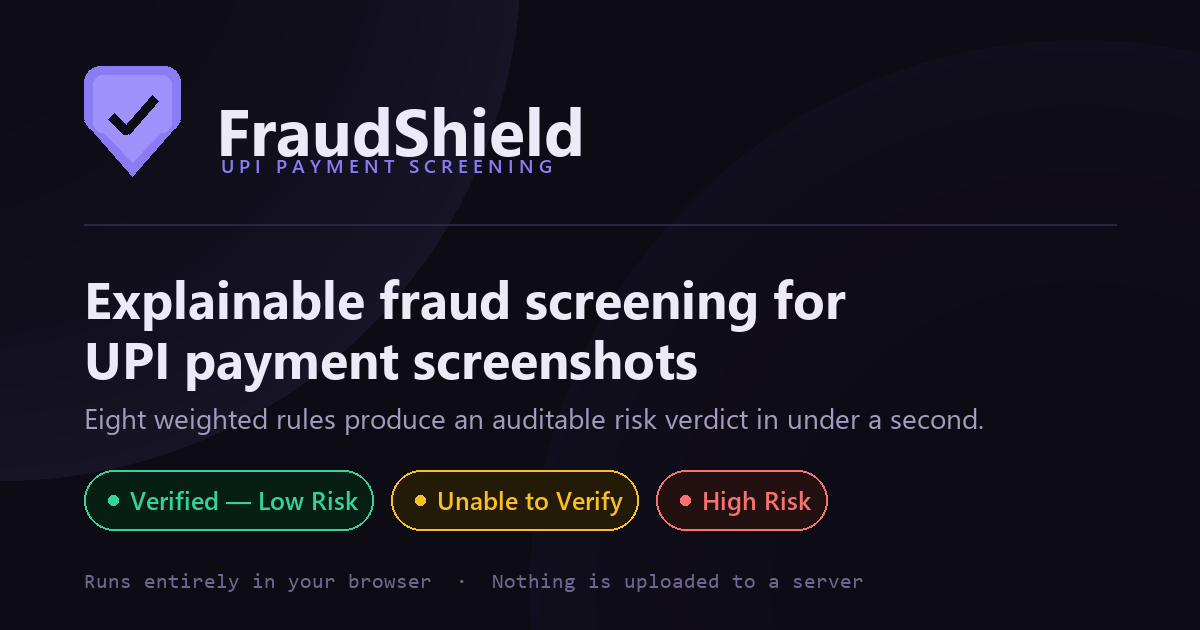
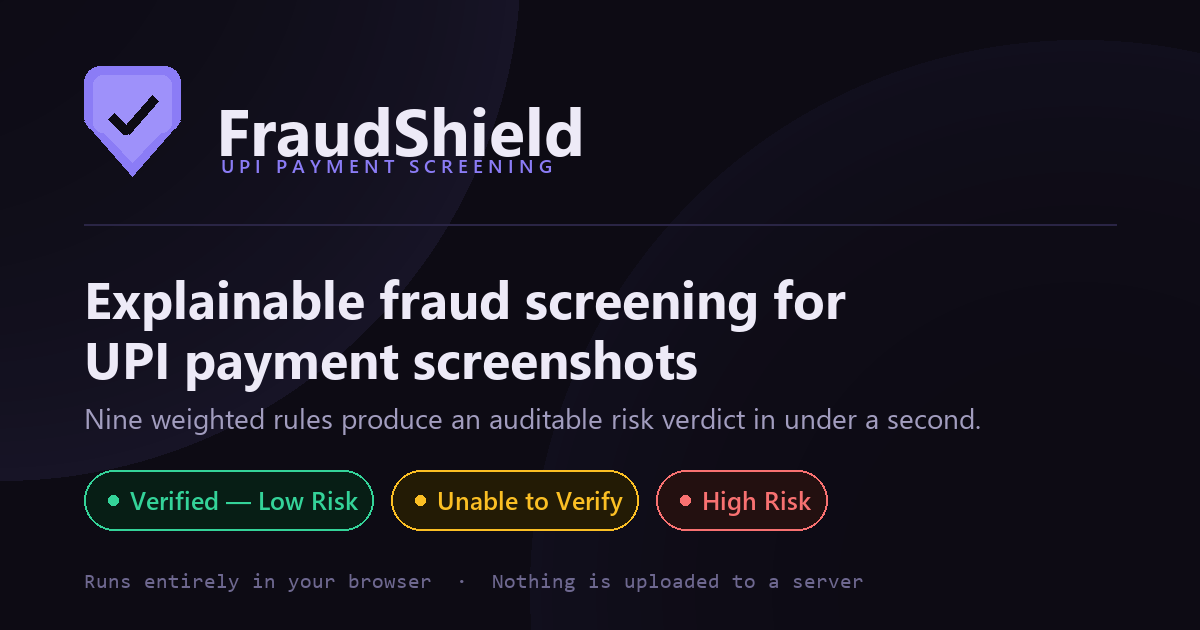
Read fields from the screenshot, and use the payer mobile as identity
Two additions asked for after using the prototype: the form did not fill
itself from an uploaded screenshot, and a payer mobile number had nowhere
to go.

OCR: Tesseract.js is fetched from a CDN only when an image is actually
uploaded, so the page still loads in one request and still works offline.
It reads amount, reference, payee VPA, mobile and payer name; each filled
value is outlined as auto-read rather than trusted. If the library is
blocked, times out, or the parse finds nothing, the form drops back to
manual entry and says so — the operator is never blocked, and the exact-
file hash is captured either way, so duplicate detection is unaffected.

Parsing is unit-tested against GPay, PhonePe and Paytm layouts. Two traps
it now avoids: a 12-digit reference contains a valid-looking 10-digit
mobile, so only a whole digit run is accepted as a number; and a support
email often precedes the payee handle, so every handle is walked rather
than just the first.

Mobile number: keyed against this merchant's own history — a known number
fills in the payer and shows their last payment. A phone number cannot be
resolved against bank or NPCI records from a browser, and the UI does not
pretend otherwise.

New rule R9 (weight 40) flags a mobile number turning up under a different
payer name, a common mule-account pattern. The history autofill is
suppressed while a screenshot is loaded: filling the name from the same
[…]

Changed region(s): [[0.0617, 0.6333, 0.8325, 0.6937]]

diff --git a/index.html b/index.html
@@ -4,7 +4,7 @@
 <meta charset="UTF-8">
 <meta name="viewport" content="width=device-width, initial-scale=1.0">
 <title>FraudShield UPI Console</title>
-<meta name="description" content="Explainable fraud screening for UPI payment screenshots — eight weighted rules produce an auditable risk verdict in under a second, entirely in your browser.">
+<meta name="description" content="Explainable fraud screening for UPI payment screenshots — nine weighted rules produce an auditable risk verdict in under a second, entirely in your browser.">
 <meta name="theme-color" content="#0d0b14">
 <link rel="canonical" href="https://printshop39-byte.github.io/fraudshield-upi/">
 <!-- Inline SVG favicon: no extra request, works offline. -->
@@ -149,6 +149,8 @@
   }
   .field input:focus,.field select:focus{outline:none;border-color:var(--accent)}
   .field input.invalid,.field select.invalid{border-color:var(--red)}
+  /* Auto-read values are marked, not trusted — the operator should check them. */
+  .field input.autofilled{border-color:var(--accent);background:rgba(139,124,246,.07)}
   .field .hint{display:block;font-size:10.5px;color:var(--tx3);margin-top:4px}
   .f-row{display:grid;grid-template-columns:1fr 1fr;gap:10px}
   .form-error{
@@ -397,14 +399,19 @@
           <div class="field"><label for="i-vpa">Payee VPA on screenshot</label><input id="i-vpa" value="sukhada.collect@okaxis"></div>
           <div class="f-row">
             <div class="field"><label for="i-payer">Payer name</label><input id="i-payer" value="Ramesh Patil"></div>
-            <div class="field"><label for="i-age">Screenshot age</label>
-              <select id="i-age">
-                <option value="0.2">Just now (12 min)</option>
-                <option value="20">Today (20 hrs)</option>
-                <option value="72">3 days old</option>
-                <option value="480">20 days old</option>
-              </select>
+            <div class="field"><label for="i-mobile">Payer mobile</label>
+              <input id="i-mobile" inputmode="numeric" maxlength="10" placeholder="10 digits">
+              <small class="hint">Known numbers fill in the payer automatically</small>
             </div>
+          </div>
+          <div id="payer-note" class="form-note hidden"></div>
+          <div class="field"><label for="i-age">Screenshot age</label>
+            <select id="i-age">
+              <option value="0.2">Just now (12 min)</option>
+              <option value="20">Today (20 hrs)</option>
+              <option value="72">3 days old</option>
+              <option value="480">20 days old</option>
+            </select>
           </div>
           <div class="toggle-row">
             <div class="tl"><b>Payment gateway connected</b><span>Cross-check UTR against real bank settlement</span></div>
@@ -508,12 +515,12 @@
               │
               ▼
  ┌────────────────────────────────┐
- │  2. FIELD EXTRACTION (OCR)     │  → amount, UTR, payee VPA, timestamp
+ │  2. FIELD EXTRACTION (OCR)     │  → amount, UTR, payee VPA, mobile
  └────────────────────────────────┘
               │
               ▼
  ┌────────────────────────────────┐
- │  3. RULE ENGINE (8 rules)      │  → weighted risk score 0–100
+ │  3. RULE ENGINE (9 rules)      │  → weighted risk score 0–100
  └────────────────────────────────┘
               │
               ▼
@@ -654,9 +661,28 @@ const RULES = [
 
   { id:'R7', name:'Payer velocity check', weight:15,
     detects:'Unusual submission frequency',
-    test:t => LEDGER.filter(x => x.payer === t.payer).length >= 3,
-    msg:t => `${t.payer} has submitted ${LEDGER.filter(x=>x.payer===t.payer).length} payment proofs — above normal frequency.`,
+    /* Keyed on the mobile number when given — a phone number is a far
+       harder identity to vary than a typed name. */
+    test:t => payerClaims(t) >= 3,
+    msg:t => `This payer has submitted ${payerClaims(t)} payment proofs — above normal frequency.`,
     ok:'Payer submission frequency is normal.' },
+
+  { id:'R9', name:'Payer identity consistency', weight:40,
+    detects:'Mobile number reused under a different name',
+    test:t => {
+      const h = payerHistory(t.mobile);
+      return !!h && !!t.payer && h.payer.toLowerCase() !== t.payer.toLowerCase();
+    },
+    msg:t => {
+      const h = payerHistory(t.mobile);
+      return `Mobile ${t.mobile} was previously used by "${h.payer}", not "${t.payer}". The same number paying under a different name is a common mule-account pattern.`;
+    },
+    ok:t => {
+      if(!t.mobile) return 'No mobile number given — payer identity check skipped.';
+      const h = payerHistory(t.mobile);
+      return h ? `Mobile matches a known payer ("${h.payer}") from ${h.date}.`
+               : 'First payment from this mobile number — nothing to contradict.';
+    } },
 
   { id:'R8', name:'Bank settlement match', weight:30,
     detects:'No real money received',
@@ -667,26 +693,42 @@ const RULES = [
 
 /* ---------- Seed ledger (demo history) ---------- */
 const LEDGER = [
-  {date:'18 Aug', utr:'412508931477', payer:'Ramesh Patil',  vpa:MERCHANT_VPA, amount:2500, score:0,  verdict:'GREEN',  reason:'All checks passed', hash:null},
-  {date:'18 Aug', utr:'389041226630', payer:'Sunita Jadhav', vpa:MERCHANT_VPA, amount:1800, score:0,  verdict:'GREEN',  reason:'All checks passed', hash:null},
-  {date:'19 Aug', utr:'774125009863', payer:'Amit Kore',     vpa:'amit.pay@ybl',amount:5000,score:85, verdict:'RED',    reason:'Payee VPA mismatch', hash:null},
-  {date:'19 Aug', utr:'556203118742', payer:'Vikas More',    vpa:MERCHANT_VPA, amount:3200, score:30, verdict:'YELLOW', reason:'No settlement match', hash:null},
-  {date:'19 Aug', utr:'901337442158', payer:'Priya Shinde',  vpa:MERCHANT_VPA, amount:950,  score:0,  verdict:'GREEN',  reason:'All checks passed', hash:null},
-  {date:'20 Aug', utr:'223908115570', payer:'Amit Kore',     vpa:MERCHANT_VPA, amount:7500, score:95, verdict:'RED',    reason:'Amount tampering', hash:null},
-  {date:'20 Aug', utr:'640182297431', payer:'Nilesh Gaikwad',vpa:MERCHANT_VPA, amount:4100, score:0,  verdict:'GREEN',  reason:'All checks passed', hash:null},
-  {date:'20 Aug', utr:'118450063392', payer:'Sunita Jadhav', vpa:MERCHANT_VPA, amount:2200, score:0,  verdict:'GREEN',  reason:'All checks passed', hash:null}
+  {date:'18 Aug', utr:'412508931477', payer:'Ramesh Patil',  mobile:'9822014577', vpa:MERCHANT_VPA, amount:2500, score:0,  verdict:'GREEN',  reason:'All checks passed', hash:null},
+  {date:'18 Aug', utr:'389041226630', payer:'Sunita Jadhav', mobile:'9730558812', vpa:MERCHANT_VPA, amount:1800, score:0,  verdict:'GREEN',  reason:'All checks passed', hash:null},
+  {date:'19 Aug', utr:'774125009863', payer:'Amit Kore',     mobile:'9146770231', vpa:'amit.pay@ybl',amount:5000,score:85, verdict:'RED',    reason:'Payee VPA mismatch', hash:null},
+  {date:'19 Aug', utr:'556203118742', payer:'Vikas More',    mobile:'9028441963', vpa:MERCHANT_VPA, amount:3200, score:30, verdict:'YELLOW', reason:'No settlement match', hash:null},
+  {date:'19 Aug', utr:'901337442158', payer:'Priya Shinde',  mobile:'8956120744', vpa:MERCHANT_VPA, amount:950,  score:0,  verdict:'GREEN',  reason:'All checks passed', hash:null},
+  {date:'20 Aug', utr:'223908115570', payer:'Amit Kore',     mobile:'9146770231', vpa:MERCHANT_VPA, amount:7500, score:95, verdict:'RED',    reason:'Amount tampering', hash:null},
+  {date:'20 Aug', utr:'640182297431', payer:'Nilesh Gaikwad',mobile:'7887332905', vpa:MERCHANT_VPA, amount:4100, score:0,  verdict:'GREEN',  reason:'All checks passed', hash:null},
+  {date:'20 Aug', utr:'118450063392', payer:'Sunita Jadhav', mobile:'9730558812', vpa:MERCHANT_VPA, amount:2200, score:0,  verdict:'GREEN',  reason:'All checks passed', hash:null}
 ];
+
+/* Most recent ledger entry for a payer mobile number, if any. */
+function payerHistory(mobile){
+  if(!/^[6-9]\d{9}$/.test(mobile || '')) return null;
+  return LEDGER.find(x => x.mobile === mobile) || null;
+}
+/* How many claims this payer has filed — by mobile when we have one. */
+function payerClaims(t){
+  return t.mobile
+    ? LEDGER.filter(x => x.mobile === t.mobile).length
+    : LEDGER.filter(x => x.payer === t.payer).length;
+}
 
 /* ---------- Demo cases ---------- */
 const SAMPLES = [
   {t:'✓ Genuine payment', d:'Everything checks out',
-   v:{amt:2500, exp:2500, utr:'770418299356', vpa:MERCHANT_VPA, payer:'Kiran Deshmukh', age:'0.2', gw:true}},
+   v:{amt:2500, exp:2500, utr:'770418299356', vpa:MERCHANT_VPA, payer:'Kiran Deshmukh', mobile:'9673410288', age:'0.2', gw:true}},
   {t:'✕ Screenshot replay', d:'Same UTR used before',
-   v:{amt:2500, exp:2500, utr:'412508931477', vpa:MERCHANT_VPA, payer:'Ramesh Patil', age:'0.2', gw:false}},
+   v:{amt:2500, exp:2500, utr:'412508931477', vpa:MERCHANT_VPA, payer:'Ramesh Patil', mobile:'9822014577', age:'0.2', gw:false}},
   {t:'✕ Wrong UPI ID', d:'Money went elsewhere',
-   v:{amt:3000, exp:3000, utr:'883012774590', vpa:'rakesh.collect@ybl', payer:'Sanjay Bhosale', age:'0.2', gw:false}},
+   v:{amt:3000, exp:3000, utr:'883012774590', vpa:'rakesh.collect@ybl', payer:'Sanjay Bhosale', mobile:'9011256630', age:'0.2', gw:false}},
   {t:'✕ Edited amount', d:'₹12,500 claimed vs ₹1,250 due',
-   v:{amt:12500, exp:1250, utr:'559108234461', vpa:MERCHANT_VPA, payer:'Amit Kore', age:'72', gw:false}}
+   v:{amt:12500, exp:1250, utr:'559108234461', vpa:MERCHANT_VPA, payer:'Amit Kore', mobile:'9146770231', age:'72', gw:false}},
+  {t:'✕ Payer identity mismatch', d:'Known number, new name',
+   v:{amt:2000, exp:2000, utr:'660192883047', vpa:MERCHANT_VPA, payer:'Rahul Salunkhe', mobile:'9822014577', age:'0.2', gw:false}},
+  {t:'✓ First-time payer', d:'Unknown number, all clean',
+   v:{amt:1500, exp:1500, utr:'490273116628', vpa:MERCHANT_VPA, payer:'Manisha Pawar', mobile:'8767445190', age:'0.2', gw:true}}
 ];
 
 /* ================================================================
@@ -809,9 +851,12 @@ document.querySelectorAll('.sample-btn').forEach(b => {
     $('i-amt').value = v.amt; $('i-exp').value = v.exp;
     $('i-utr').value = v.utr; $('i-vpa').value = v.vpa;
     $('i-payer').value = v.payer; $('i-age').value = v.age;
+    $('i-mobile').value = v.mobile || '';
     $('i-gw').checked = v.gw;
     uploadedHash = null;
     clearFormError();
+    document.querySelectorAll('.field .autofilled').forEach(e => e.classList.remove('autofilled'));
+    onMobileEntered();
     $('upload-note').classList.add('hidden');
     $('prev').classList.add('hidden');
     $('drop').classList.remove('hidden');
@@ -856,8 +901,128 @@ function loadImage(f){
     $('prev').classList.remove('hidden');
     drop.classList.add('hidden');
     clearFieldsForUpload();
+    runOCR(blob);
   };
   rd.readAsArrayBuffer(f);
+}
+
+/* ================================================================
+   OCR — best-effort, never required
+
+   Tesseract.js is fetched from a CDN only when an image is actually
+   uploaded, so the page still loads in one request and still works
+   with no network. If the library fails to load, times out, or reads
+   nothing usable, the form simply stays in manual-entry mode — the
+   operator is never blocked, and every auto-filled value is marked
+   for checking rather than trusted.
+   ================================================================ */
+const OCR_SRC = 'https://cdn.jsdelivr.net/npm/tesseract.js@5.1.1/dist/tesseract.min.js';
+const OCR_TIMEOUT = 30000;
+let ocrLoader = null;
+
+function loadOCR(){
+  if(window.Tesseract) return Promise.resolve(window.Tesseract);
+  if(ocrLoader) return ocrLoader;
+  ocrLoader = new Promise((resolve, reject) => {
+    const s = document.createElement('script');
+    s.src = OCR_SRC;
+    s.onload  = () => window.Tesseract ? resolve(window.Tesseract) : reject(new Error('loaded but absent'));
+    s.onerror = () => reject(new Error('script blocked or offline'));
+    document.head.appendChild(s);
+  });
+  return ocrLoader;
+}
+
+/* Pull the fields we care about out of raw OCR text. */
+function parseUPIText(txt){
+  const flat = txt.replace(/\s+/g, ' ');
+  const out = {};
+
+  const amt = flat.match(/(?:₹|Rs\.?|INR)\s*([\d,]+(?:\.\d{1,2})?)/i);
+  if(amt) out.amount = amt[1].replace(/,/g, '');
+
+  const utr = flat.match(/\b(\d{12})\b/);            // NPCI reference length
+  if(utr) out.utr = utr[1];
+
+  /* Walk every handle, not just the first — a screenshot often carries a
+     support email before the payee VPA, and stopping at the first match
+     would return the email or nothing. */
+  const handles = flat.match(/\b[a-zA-Z0-9][a-zA-Z0-9._-]+@[a-zA-Z][a-zA-Z.]*[a-zA-Z]\b/g) || [];
+  const vpa = handles.find(h => !/\.(com|in|org|net|co)$/i.test(h)
+                             && !/@(gmail|yahoo|outlook|hotmail|rediffmail)\b/i.test(h));
+  if(vpa) out.vpa = vpa;
+
+  /* UPI apps group phone numbers — "+91 98220 14577", "98-220-14577" — so
+     join digit runs split only by a space or hyphen, then accept a run
+     ONLY if the whole run is a mobile number. Matching loosely inside a
+     longer run would carve a fake mobile out of a 12-digit reference:
+     889201447366 would yield 9201447366. Exact 10-digit runs win; a
+     91-prefixed run is the fallback, and the reference is excluded. */
+  const runs = (flat.replace(/(\d)[\s-]+(?=\d)/g, '$1').match(/\d+/g) || [])
+                 .filter(r => r !== out.utr);
+  out.mobile = runs.find(r => /^[6-9]\d{9}$/.test(r))
+            || (runs.map(r => (/^(?:0|91)([6-9]\d{9})$/.exec(r) || [])[1]).find(Boolean));
+  if(!out.mobile) delete out.mobile;
+
+  /* Payer name: "To Rikhba Vihaparasar", "Paid to SUKHADA COLLECTIONS".
+     Requires a capitalised word so "To sukhada.collect@okaxis" is not
+     mistaken for a name. */
+  const nm = flat.match(/\b(?:To|Paid to|Sent to|From)\s+([A-Z][A-Za-z.]*(?:\s+[A-Z][A-Za-z.]*){0,3})/);
+  if(nm && !nm[1].includes('@')) out.payer = nm[1].trim();
+
+  return out;
+}
+
+async function runOCR(blob){
+  const note = $('upload-note');
+  const setNote = (title, body) => {
+    note.innerHTML = `<b>${esc(title)}</b>${esc(body)}`;
+    note.classList.remove('hidden');
+  };
+  setNote('Reading the screenshot…',
+          'Trying to pull the amount, reference number and UPI ID out of the image. You can start typing them yourself instead — this never blocks you.');
+
+  let worker;
+  try{
+    const T = await Promise.race([
+      loadOCR(),
+      new Promise((_, r) => setTimeout(() => r(new Error('timeout')), OCR_TIMEOUT))
+    ]);
+    worker = await T.createWorker('eng');
+    const { data:{ text } } = await Promise.race([
+      worker.recognize(blob),
+      new Promise((_, r) => setTimeout(() => r(new Error('timeout')), OCR_TIMEOUT))
+    ]);
+    const got = parseUPIText(text || '');
+
+    const filled = [];
+    if(got.amount){ $('i-amt').value = got.amount; $('i-exp').value = got.amount; filled.push('amount'); markAuto('i-amt'); markAuto('i-exp'); }
+    if(got.utr)   { $('i-utr').value = got.utr;       filled.push('reference number'); markAuto('i-utr'); }
+    if(got.vpa)   { $('i-vpa').value = got.vpa;       filled.push('payee UPI ID');     markAuto('i-vpa'); }
+    /* Name from the image before the mobile lookup runs, so R9 compares
+       what the proof claims against what history knows. */
+    if(got.payer) { $('i-payer').value = got.payer;   filled.push('payer name');       markAuto('i-payer'); }
+    if(got.mobile){ $('i-mobile').value = got.mobile; filled.push('mobile number');    markAuto('i-mobile'); onMobileEntered(); }
+
+    if(filled.length){
+      setNote(`Auto-read ${filled.join(', ')} — please check against the image.`,
+              'OCR is approximate. Correct anything that looks wrong before running the analysis, and fill in whatever it could not find.');
+    }else{
+      setNote('Could not read the screenshot — enter the details yourself.',
+              'The image may be low resolution or compressed. Type the amount, reference number and payee UPI ID exactly as they appear.');
+    }
+  }catch(err){
+    setNote('Automatic reading unavailable — enter the details yourself.',
+            'This needs an internet connection the first time. Type the amount, reference number and payee UPI ID exactly as they appear in your screenshot.');
+  }finally{
+    if(worker){ try{ await worker.terminate(); }catch(e){} }
+  }
+}
+
+function markAuto(id){
+  const el = $(id);
+  el.classList.add('autofilled');
+  el.addEventListener('input', () => el.classList.remove('autofilled'), {once:true});
 }
 
 /* A real screenshot must never be scored against leftover demo values.
@@ -865,13 +1030,51 @@ function loadImage(f){
    genuine payment as a duplicate — the fields are cleared instead and
    the operator is asked to read the real ones off the image. */
 function clearFieldsForUpload(){
-  ['i-amt','i-exp','i-utr','i-vpa','i-payer'].forEach(id => $(id).value = '');
+  ['i-amt','i-exp','i-utr','i-vpa','i-payer','i-mobile'].forEach(id => {
+    $(id).value = ''; $(id).classList.remove('autofilled');
+  });
   $('i-age').value = '0.2';
+  $('payer-note').classList.add('hidden');
   $('upload-note').classList.remove('hidden');
   $('result').classList.add('hidden');
   $('result-empty').classList.remove('hidden');
   $('i-amt').focus();
 }
+
+/* ---- payer lookup by mobile ----
+   A mobile number cannot be resolved against bank or NPCI records from a
+   browser — no such public API exists. What it can do is key this
+   merchant's own history, filling in a payer they have dealt with before
+   and letting rule R9 flag the number turning up under a new name. */
+function onMobileEntered(){
+  const m    = $('i-mobile').value.trim();
+  const note = $('payer-note');
+  if(!/^[6-9]\d{9}$/.test(m)){ note.classList.add('hidden'); return; }
+
+  const h = payerHistory(m);
+  if(!h){
+    note.innerHTML = '<b>First-time payer.</b>No earlier payment from this number, so there is no history to check it against.';
+    note.classList.remove('hidden');
+    return;
+  }
+  /* Never fill the payer name from history while a screenshot is loaded.
+     Rule R9 exists to compare the name on the proof against the name this
+     number used before — filling it in from that same history would make
+     the comparison always agree and silently disable the rule. */
+  const fromScreenshot = !!uploadedHash;
+  let filled = false;
+  if(!fromScreenshot && !$('i-payer').value.trim()){
+    $('i-payer').value = h.payer; markAuto('i-payer'); filled = true;
+  }
+  note.innerHTML = `<b>Known payer — ${esc(h.payer)}</b>`
+    + `Last seen ${esc(h.date)}, ₹${fmt(h.amount)}, verdict ${esc(h.verdict)}.`
+    + (filled ? ' Payer name filled in from history.'
+              : fromScreenshot ? ' Enter the name shown on your screenshot so it can be checked against this.'
+                               : '');
+  note.classList.remove('hidden');
+}
+$('i-mobile').addEventListener('input', onMobileEntered);
+$('i-mobile').addEventListener('blur',  onMobileEntered);
 
 /* ---- validation ---- */
 function showFormError(msg){
@@ -912,6 +1115,7 @@ $('run').onclick = () => {
     utr:      $('i-utr').value.trim(),
     vpa:      $('i-vpa').value.trim(),
     payer:    $('i-payer').value.trim() || 'Unknown',
+    mobile:   $('i-mobile').value.trim(),
     ageHours: +$('i-age').value,
     gateway:  $('i-gw').checked,
     hash:     uploadedHash
@@ -922,7 +1126,7 @@ $('run').onclick = () => {
   /* record it so the NEXT submission of the same proof is caught */
   const primary = r.checks.filter(c => c.failed).sort((a,b) => b.weight - a.weight)[0];
   LEDGER.unshift({
-    date:'20 Aug', utr:t.utr, payer:t.payer, vpa:t.vpa, amount:t.amount,
+    date:'20 Aug', utr:t.utr, payer:t.payer, mobile:t.mobile, vpa:t.vpa, amount:t.amount,
     score:r.score, verdict:r.verdict,
     reason: primary ? primary.name : 'All checks passed',
     hash: t.hash
@@ -958,6 +1162,8 @@ $('again').onclick = () => {
   uploadedHash = null;
   clearFormError();
   $('upload-note').classList.add('hidden');
+  $('payer-note').classList.add('hidden');
+  document.querySelectorAll('.field .autofilled').forEach(e => e.classList.remove('autofilled'));
   $('prev').classList.add('hidden');
   drop.classList.remove('hidden');
   $('i-utr').focus();

diff --git a/tools-make-og-image.py b/tools-make-og-image.py
@@ -82,7 +82,7 @@ d.text((M, 322), "UPI payment screenshots",          font=bold(52), fill=TX)
 
 # ---- supporting line ----
 d.text((M, 398),
-       "Eight weighted rules produce an auditable risk verdict in under a second.",
+       "Nine weighted rules produce an auditable risk verdict in under a second.",
        font=reg(28), fill=TX2)
 
 # ---- verdict chips ----
